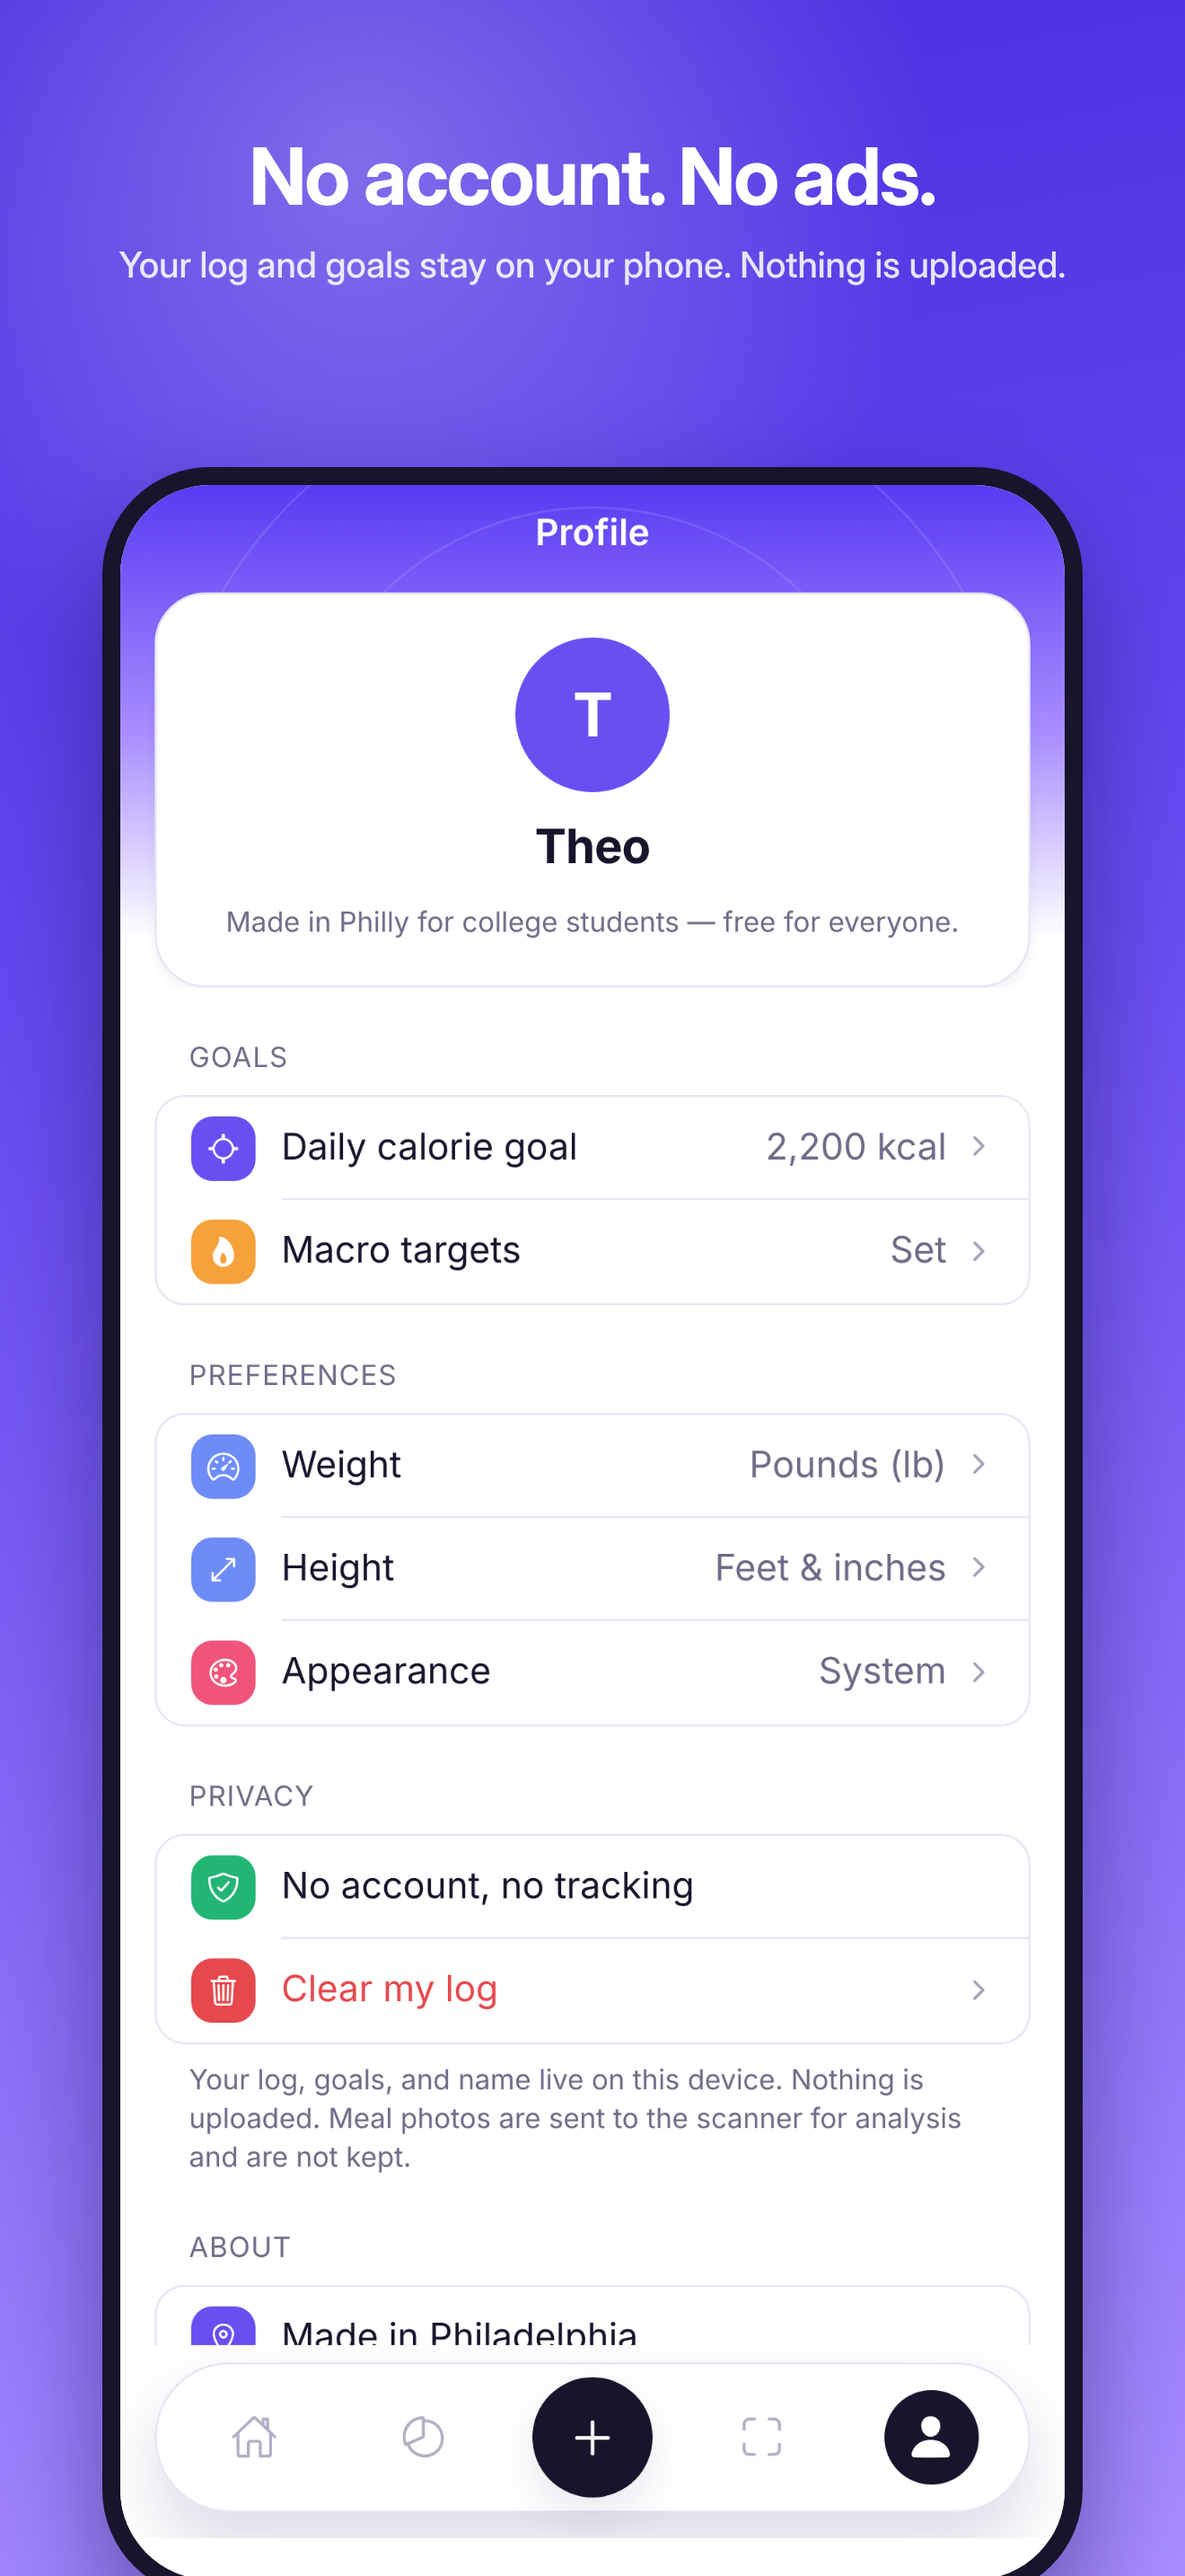
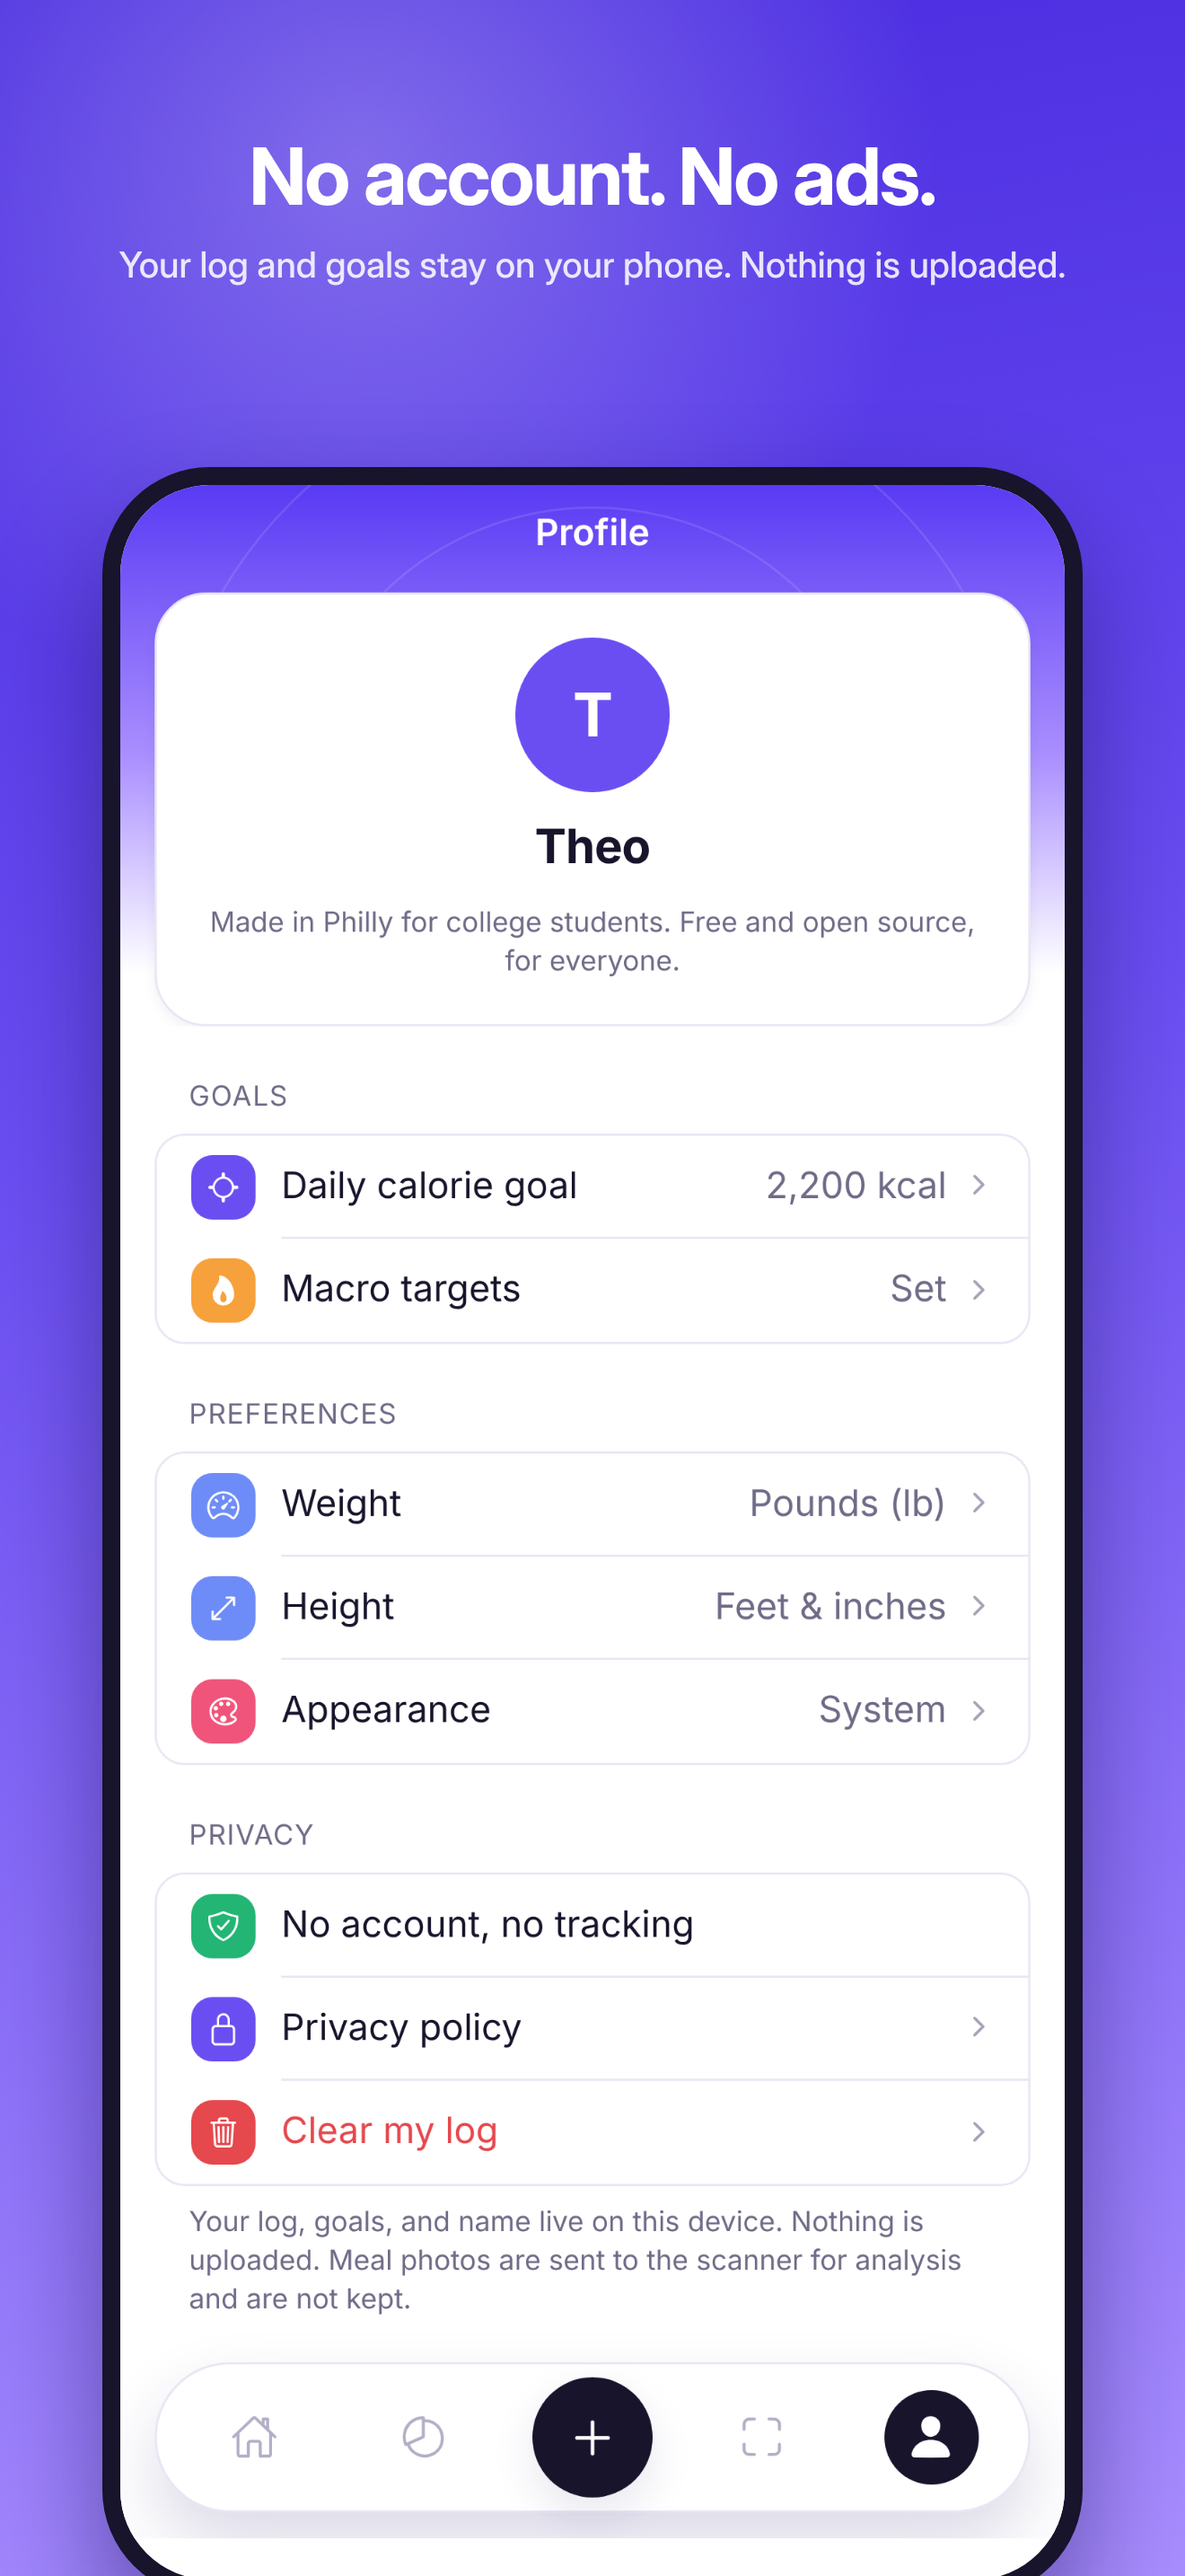
Store kit: lead with free and open source; seventh welcome screenshot
Claude-Session: https://claude.ai/code/session_016FXYvHBiLECyviPEaVMvt2

diff --git a/store/app-store-listing.md b/store/app-store-listing.md
@@ -7,14 +7,14 @@ Everything to fill in at appstoreconnect.apple.com. Copy the text as is; charact
 | File | Use in App Store Connect |
 | --- | --- |
 | `icon-1024.png` | Not uploaded separately: the icon comes from the build (`assets/justtrack.icon` + `assets/images/icon.png`). Keep it here for the listing preview and press use. |
-| `screenshots/iphone-6.9/01…06.png` | App Store → iOS App → Screenshots → **iPhone 6.9" Display** (1320 × 2868). Upload in numbered order. Apple scales this one set for every other iPhone size. |
+| `screenshots/iphone-6.9/01…07.png` | App Store → iOS App → Screenshots → **iPhone 6.9" Display** (1320 × 2868). Upload in numbered order. Apple scales this one set for every other iPhone size. |
 
 ## App Information
 
 | Field | Value |
 | --- | --- |
 | Name (30) | `JustTrack` |
-| Subtitle (30) | `Snap food. Know your calories.` |
+| Subtitle (30) | `Free, open source, no ads` |
 | Bundle ID | `com.theokkk4.justtrack` |
 | SKU | `justtrack-ios` |
 | Primary language | English (U.S.) |
@@ -30,13 +30,13 @@ Everything to fill in at appstoreconnect.apple.com. Copy the text as is; charact
 **Promotional text (170)**
 
 ```
-Free calorie tracking with no account and no ads. Snap a photo, pick from 20 fast-food menus, or build your Chipotle bowl. Your data stays on your phone.
+The free, open-source calorie tracker. No account, no ads, no subscription. Snap a photo, pick from 20 fast-food menus, or build your Chipotle bowl. Data stays on your phone.
 ```
 
 **Description (4000)**
 
 ```
-JustTrack is the calorie tracker that gets out of your way. No account, no ads, no subscription. Everything you log stays on your phone.
+JustTrack is the free, open-source calorie tracker. No account, no ads, no subscription, no paywall. The code is public, so anyone can see exactly what the app does with their data: nothing.
 
 SNAP YOUR FOOD
 Take a photo of your plate and JustTrack estimates each food on it: what it is, how much, and the calories, protein, carbs, and fat. Adjust the grams, swap anything for an exact database entry, and log it in one tap. Estimates are labelled so you always know what's measured and what's approximate.
@@ -56,19 +56,22 @@ See calories left, protein, carbs, and fat at a glance. Browse any day of the we
 PRIVATE BY DESIGN
 There is no sign-up. Your log, goals, and name are stored only on your device. Meal photos are analysed and not kept. No analytics, no tracking, no ads.
 
+FREE AND OPEN SOURCE
+Other trackers charge a subscription for photo logging and hide your data behind an account. JustTrack is free, every feature is included, and the source code is public on GitHub (github.com/theokkk4/JustTrack). Read it, improve it, or build it yourself.
+
 Made in Philadelphia for college students, and free for everyone.
 ```
 
 **Keywords (100, comma-separated, no spaces after commas)**
 
 ```
-calorie counter,food tracker,macro,diet,chipotle,fast food,nutrition,photo calories,meal log,weight
+calorie counter,free,open source,food tracker,macro,diet,chipotle,fast food,nutrition,photo,meal log
 ```
 
 **What's New (first release)**
 
 ```
-First release. Snap a photo to log a meal, search 20 fast-food menus, build your Chipotle, Subway, Panda Express, or Jersey Mike's order, and track calories and macros without an account.
+First release. Free and open source. Snap a photo to log a meal, search 20 fast-food menus, build your Chipotle, Subway, Panda Express, or Jersey Mike's order, and track calories and macros without an account.
 ```
 
 | Field | Value |
